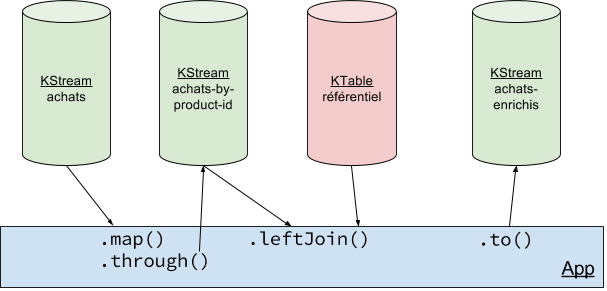
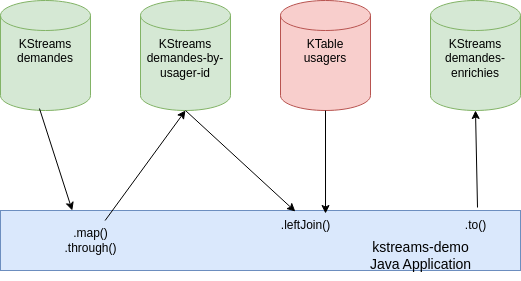
README update

diff --git a/README.md b/README.md
@@ -28,18 +28,18 @@ Deux types de streams existent dans les API fournies par kafka: les KStreams et 
 
 ![Aperçu](images/kstream-ktable.png "Aperçu")
 
-### Produits/Libellés
+### Demandes/Usagers
 
-Problème: associer une table d'identifiants produits avec les libellés des produits correspondants.  
+Problème: associer une table contenant des informations détaillées sur un usager avec ses demandes correspondantes.  
 
-Un référentiel de mappings entre des identifiants de produits et les libellés associés peut être représenté par une KTable. Si l’on décide de mettre à jour le libellé d’un produit du référentiel, l’injection d’un nouveau message écrasera l’ancien. La politique de log compaction de Kafka nous garantit que nos tuples ne seront pas effacés, contrairement à un topic non compacté qui voit ses messages effacés après 7 jours, par défaut.
+Une table de correspondance entre l'identifiant d'un usager et ses informations détaillées peut être représentée à l'aide d'une *KTable*. Lors d'une mise à jour des informations, l’injection d’un nouveau message relatif aux informations d'un usager écrasera l’ancien. La politique de log compaction de Kafka garantit que les tuples ne seront pas effacés, contrairement à un topic non compacté qui voit ses messages effacés après 7 jours, par défaut.
 
-Lorsqu’une application travaillant avec des KTables démarre, elle lit entièrement le topic depuis l’offset où elle s’était arrêtée (de la fin par défaut, si elle démarre pour la première fois), puis stocke les messages dans une instance RocksDB qui est un cache persisté et local à chaque JVM. Elle reste ensuite à l’écoute du topic pour insérer tout nouveau message dans son cache.
+Lorsqu’une application qui utilise des KTables démarre, elle lit entièrement le topic depuis l’offset où elle s’était arrêtée (de la fin par défaut, si elle démarre pour la première fois), puis stocke les messages dans une instance RocksDB qui est un cache persisté et local à chaque JVM. Elle reste ensuite à l’écoute du topic pour insérer tout nouveau message dans son cache.
 
-Pour une instance d’une application KStreams, joindre un KStream(topic achats) et une KTable(topic usagers) revient donc à :
+Pour une instance d’une application KStreams, joindre un KStream(topic demandes) et une KTable(topic usagers) revient à:
 
-- lire et mémoriser dans un cache l’ensemble des partitions assignées du topic réferentiel.
-- joindre chaque tuple provenant des partitions assignées du topic achats à la volée avec un tuple de la KTable référentiel.
+- lire et mémoriser dans un cache l’ensemble des partitions assignées du topic usagers.
+- joindre chaque tuple provenant des partitions assignées du topic demandes à la volée avec un tuple de la KTable usagers.
 
 ![Aperçu](images/workflow.png "Aperçu")
 
@@ -131,16 +131,16 @@ Ici la clé n'est pas présente, ce qui revient à produire le message dans une 
 Pour consommer les messages présents dans le topic `demandes-enrichies`, il faut exécuter la commande suivante (dans le container kafka en exécution):
 
 ```bash
-opt/scripts/consume-output.sh
+/opt/scripts/consume-output.sh
 ```
 
 Output :
 
 ```bash
-{"id":2,"name":"produit2","price":13.40}
-{"id":30,"name":"REF INCONNUE","price":1.05}
-{"id":1,"name":"produit1","price":3.40}
-{"id":1,"name":"produit1","price":3.45}
+"id":1,"name":"usager","firstName":"usr01","email":"usager.001@mail.com"}
+{"id":2,"name":"usager","firstName":"usr02","email":"usager.002@mail.com"}
+{"id":30,"name":"usager","firstName":"usr01","email":"!!! Usager inconnu !!!"}
+{"id":1,"name":"usager","firstName":"usr-01","email":"usager.001@mail.com"}
 ```
 
-On voit que les achats ont été enrichis du libellé produit grâce au référentiel.
+Les demandes des usgares sont enrichies de leur adresse eMail par une *jointure* avec  les informations détaillées des usagers.
